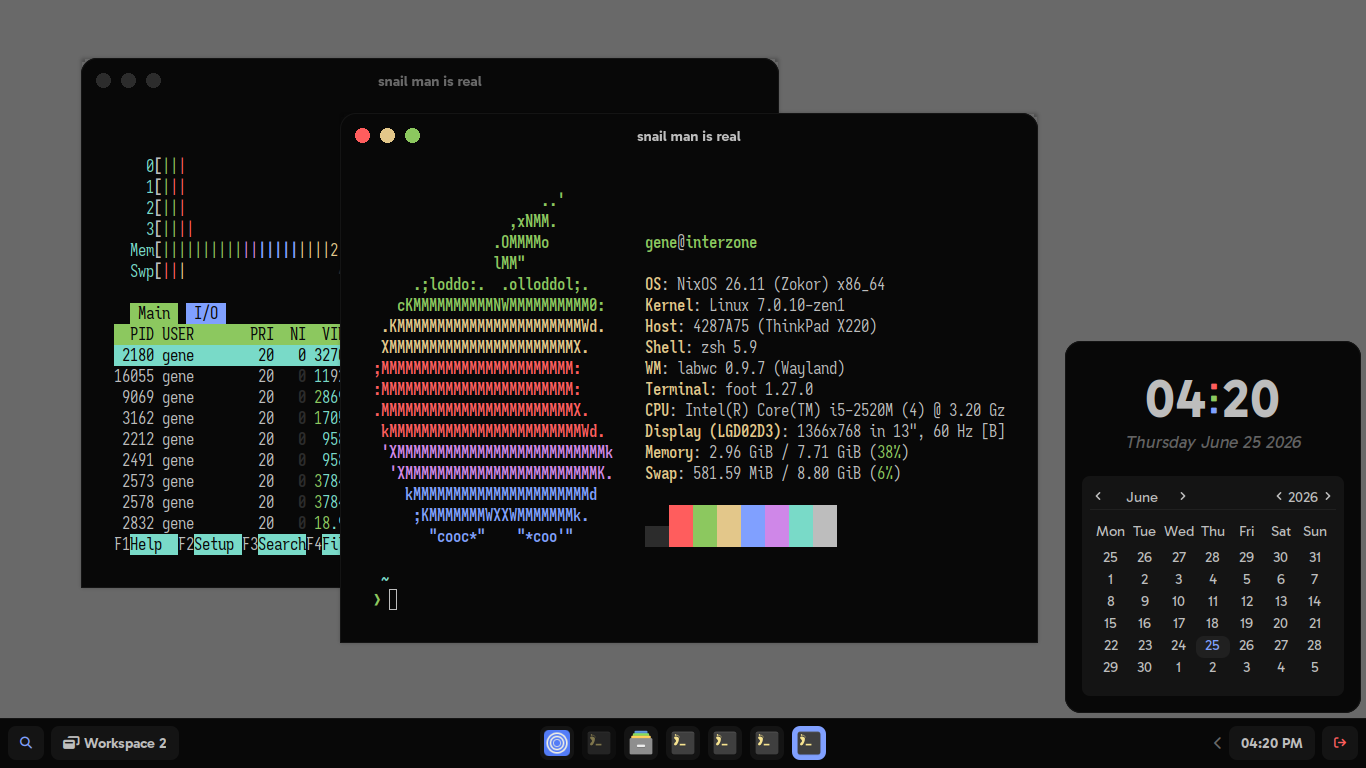
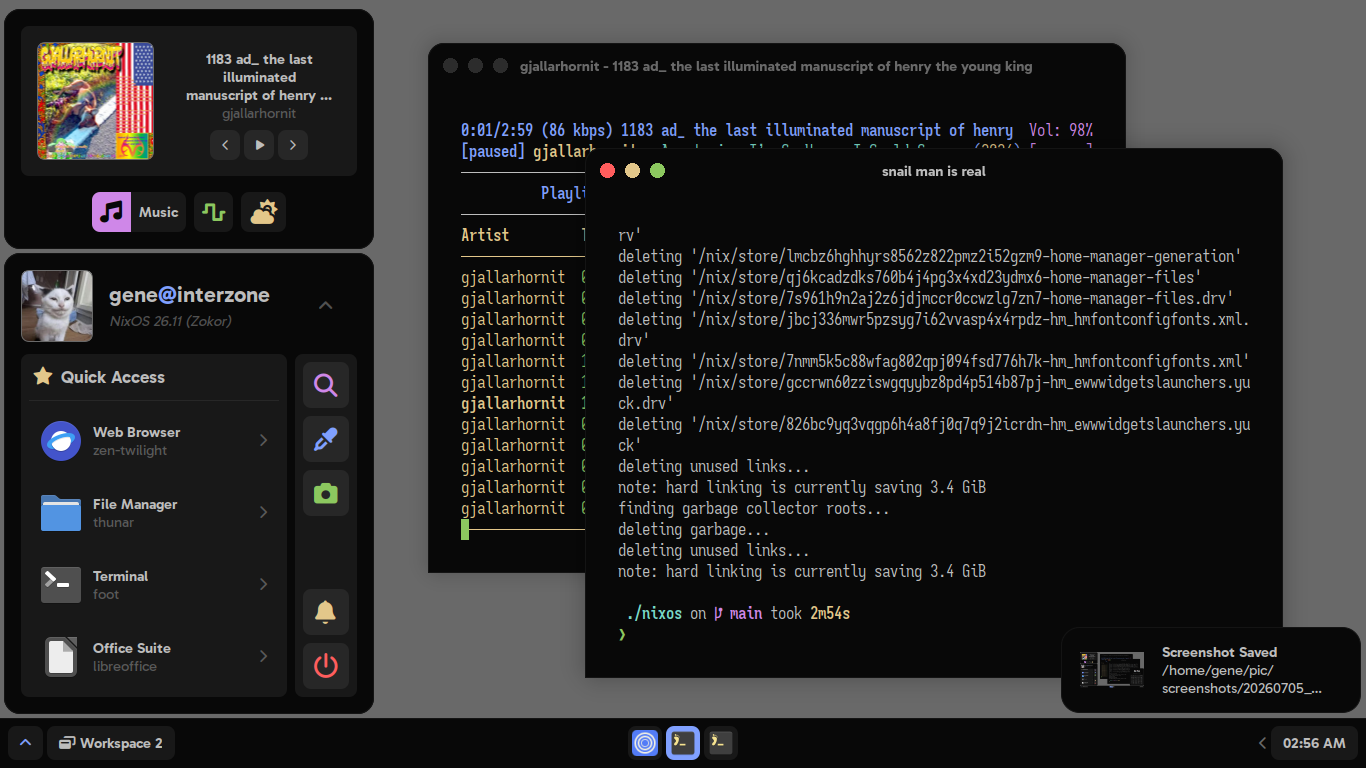
a

diff --git a/README.md b/README.md
@@ -41,11 +41,6 @@ modules/ -- system modules
 
 ![rice](./assets/moonfly1.png)
 ![rice](./assets/moonfly2.png)
-![rice](./assets/moonfly3.png)
-
-("camellia" colorscheme)
-
-![rice](./assets/camellia1.png)
 
 ### Labwc "glass"
 